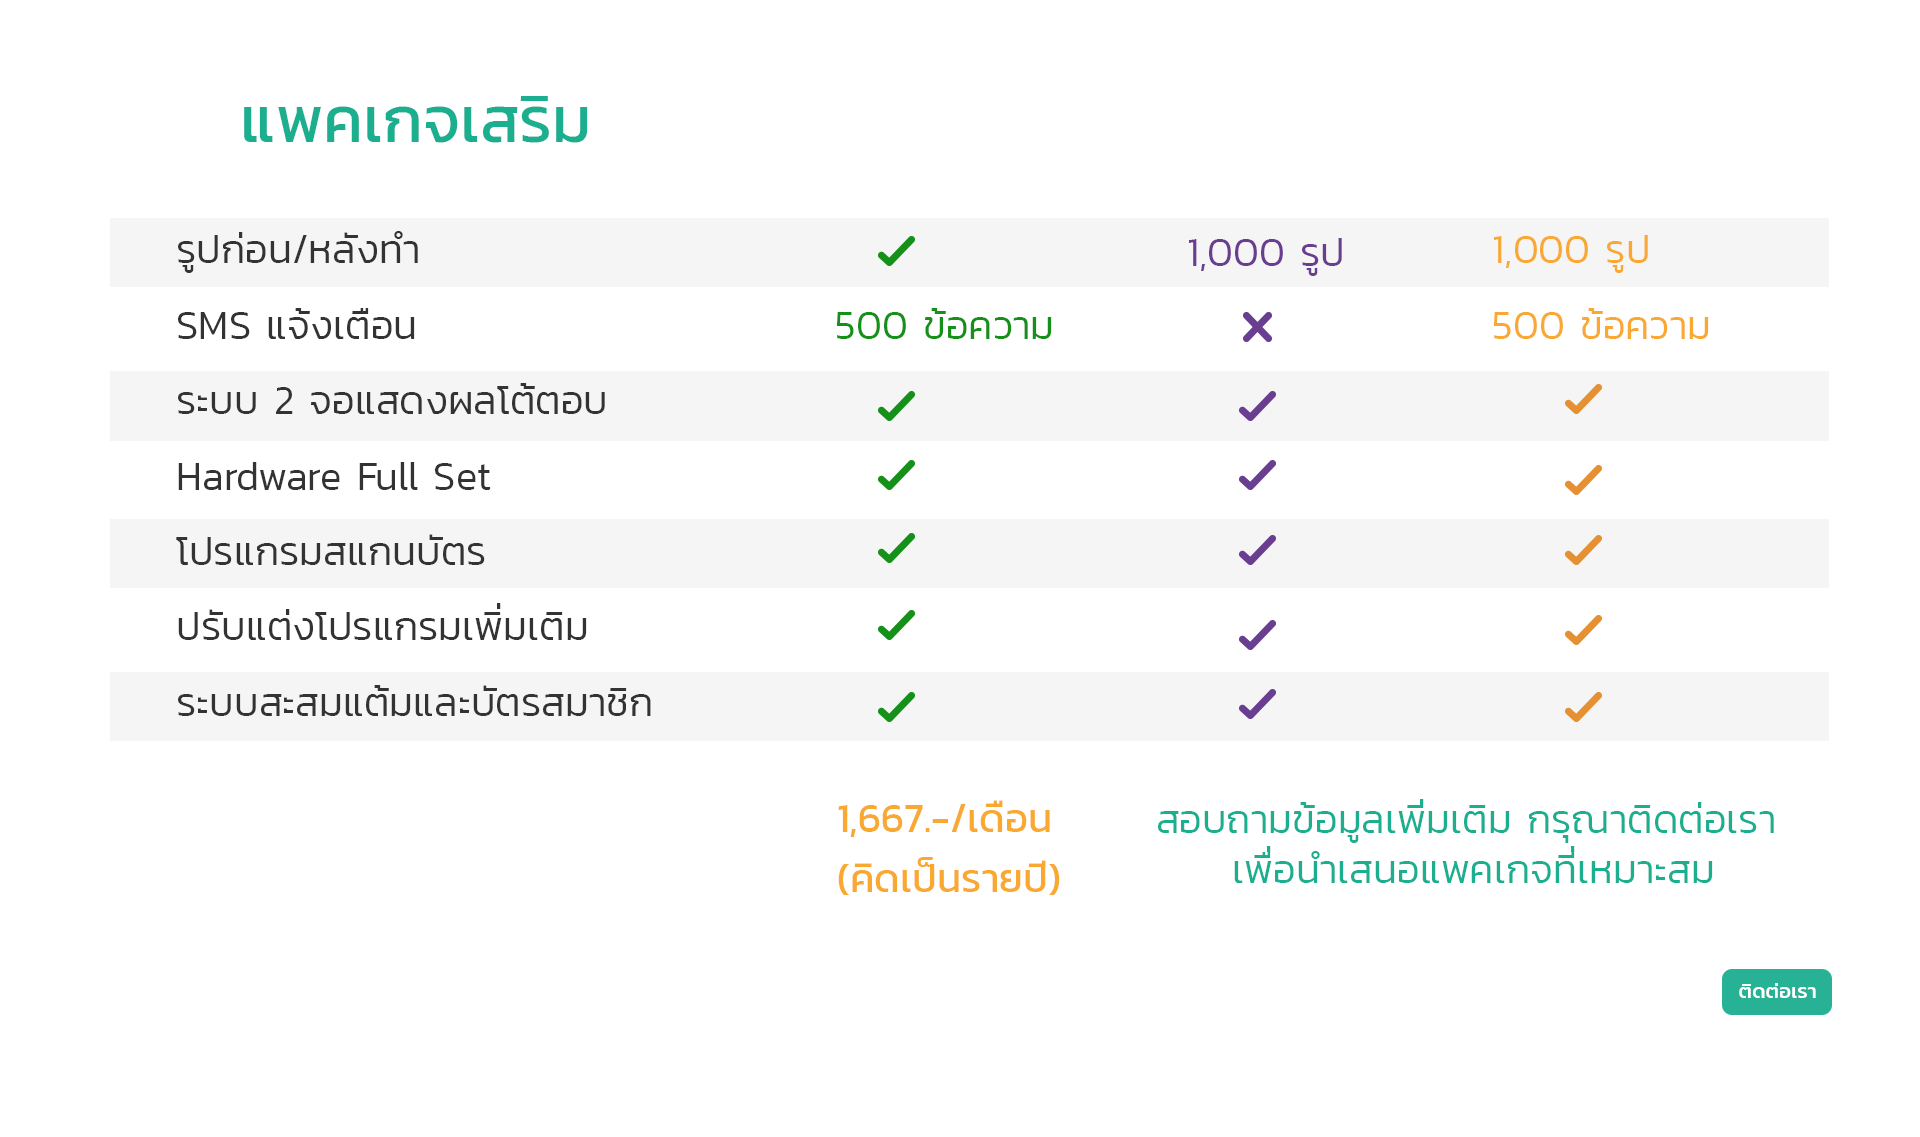
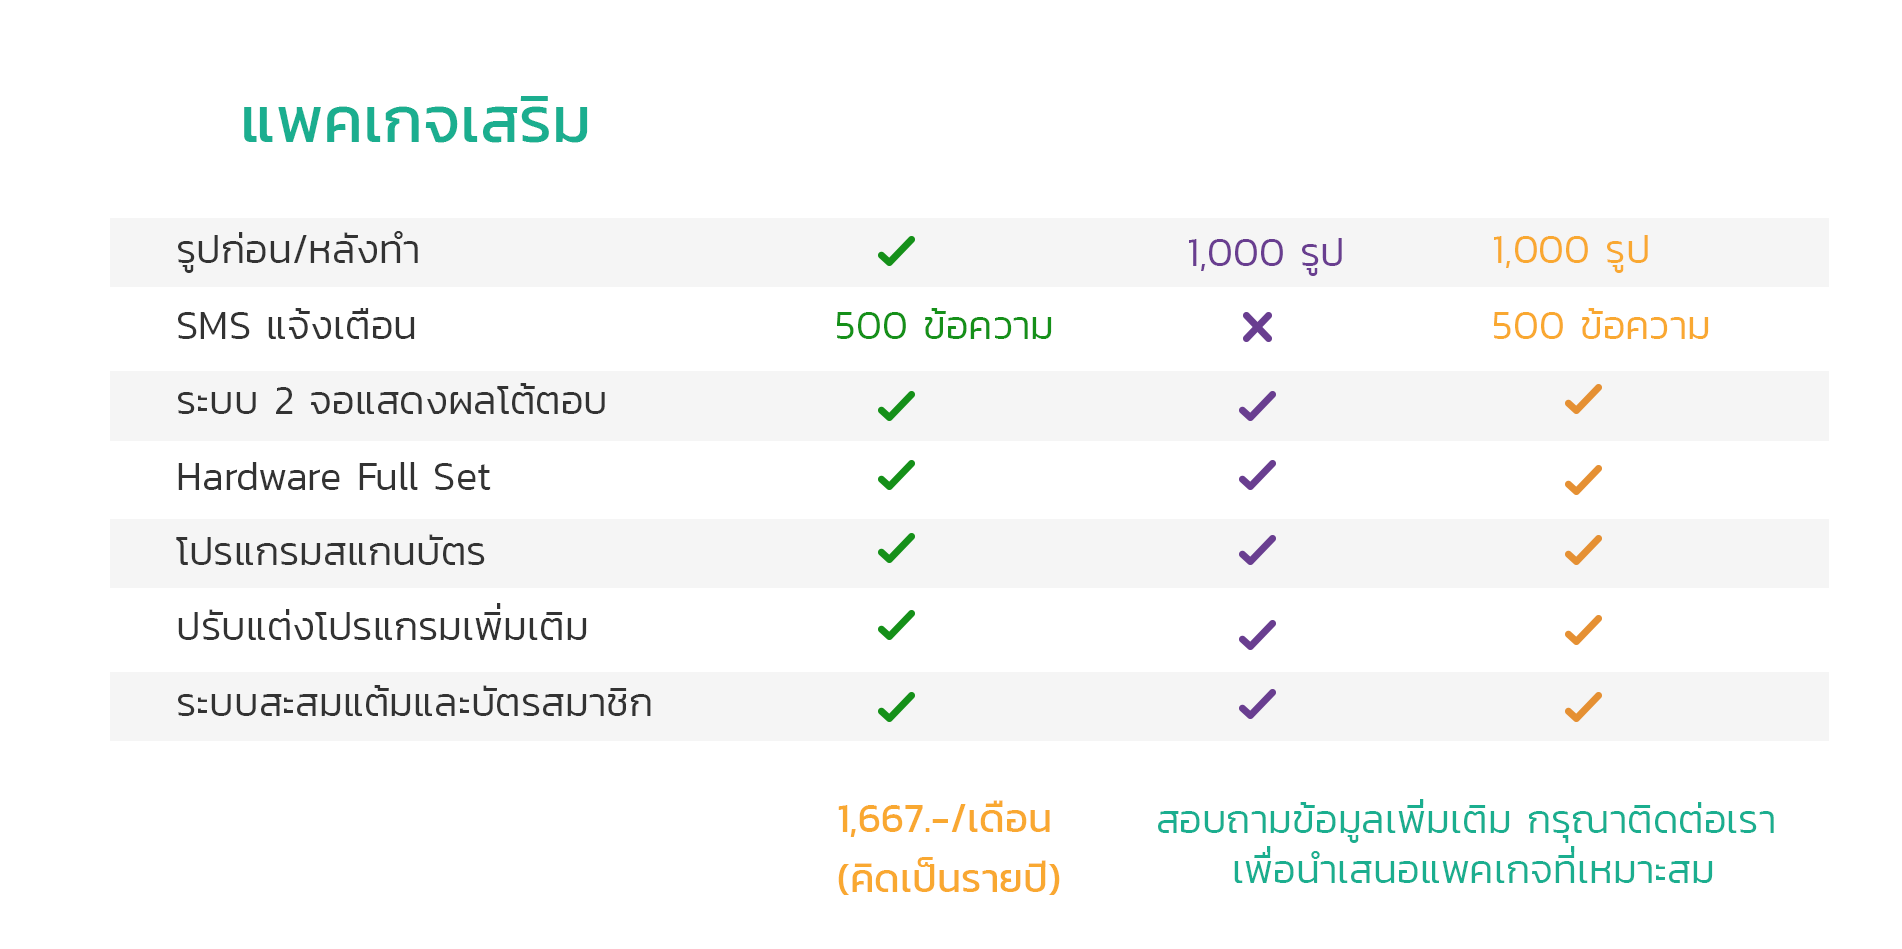
100%

diff --git a/HTML/page-four.html b/HTML/page-four.html
@@ -43,8 +43,7 @@
         <img src="..\img\page-four\Main ราคา.png" class="img-responsive" id="page4-img1">
         <img src="..\img\page-four\page 2.png" class="img-responsive" id="page4-img2">
         <img src="..\img\page-four\page 3.png" class="img-responsive" id="page4-img3">
-        
-
+        <button onclick="window.location.href='page-six.html'" class="btn btn-info" id="contact">ติดต่อเรา</button>
     </div>
 
     <img src="..\img\footage\foot text2.png" class="img-responsive" id="footage-all">

diff --git a/css/page-four.css b/css/page-four.css
@@ -1,3 +1,19 @@
 #page4-img1, #page4-img2, #page4-img3{
 	width: 100%;
 }
+
+#contact{
+	font-family: "Kanit";
+	background: #26B194;
+	border-color: #FFFFFF;
+	float: right;
+	margin-right: 5%;
+	font-size: 1.5em;
+	margin-bottom: 200px;
+	border-radius: 10px;
+}
+
+@font-face{
+	font-family: "Kanit";
+	src: url('../font/Kanit-2/Kanit-Regular.ttf') format('truetype');
+}
